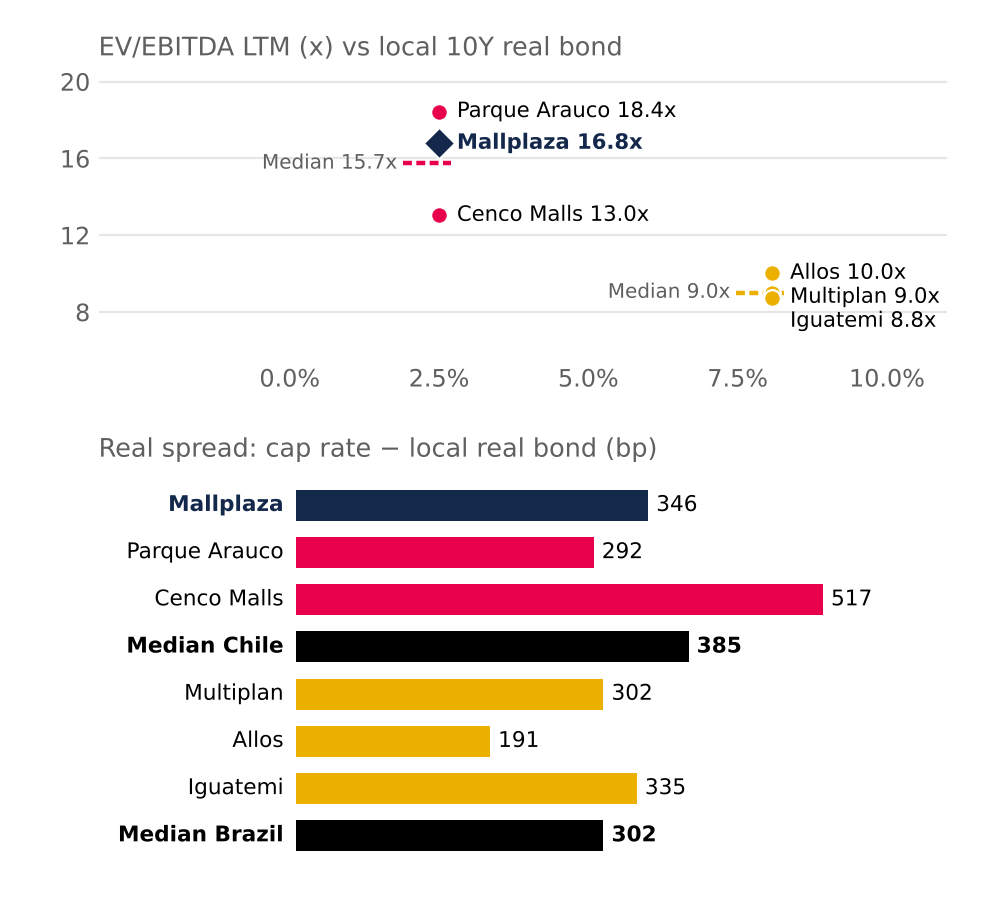
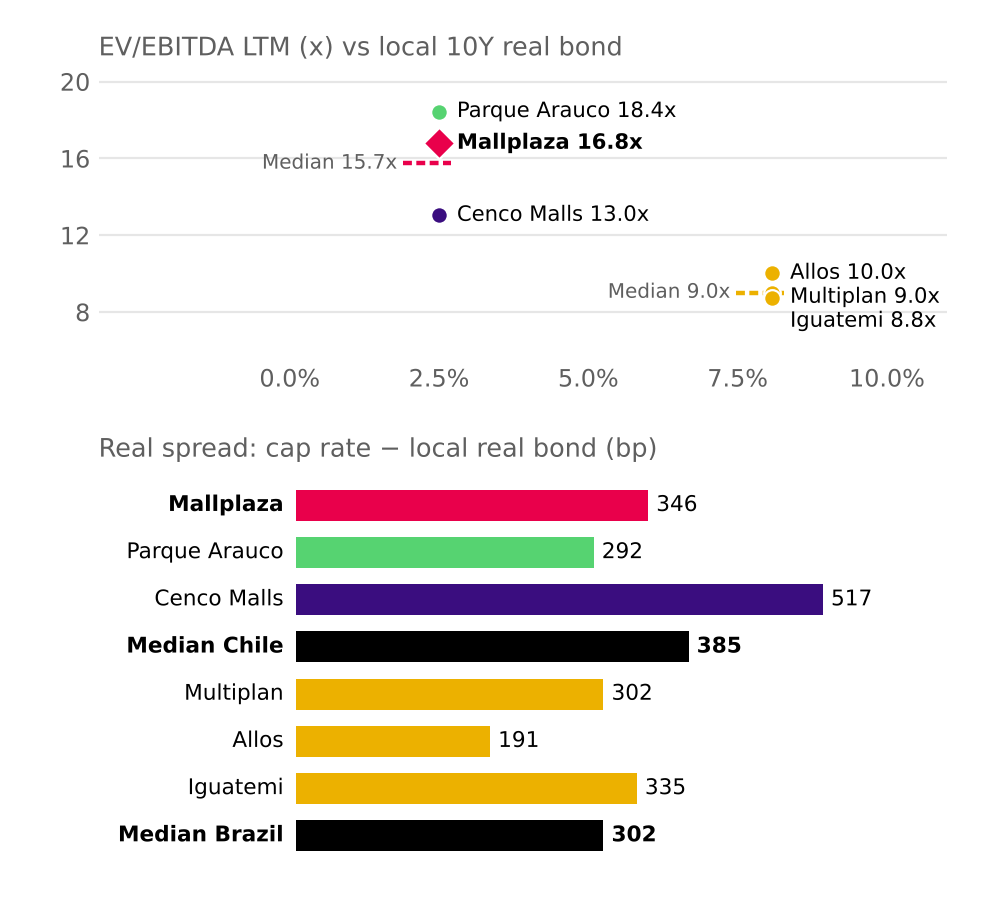
V7 (múltiplos vs tasa local): Mallplaza en rojo; Parque Arauco y Cenco Malls con su color de identificación
Claude-Session: https://claude.ai/code/session_0188QZHBkA8n5QL7BtmFakQg

Changed region(s): [[0.1826, 0.5289, 0.8519, 0.6844], [0.426, 0.1244, 0.6389, 0.1867], [0.426, 0.2178, 0.4564, 0.2489]]

diff --git a/secciones/valuacion/graficos/valuacion.py b/secciones/valuacion/graficos/valuacion.py
@@ -18,7 +18,7 @@ from matplotlib.patches import Patch, Rectangle
 
 sys.path.insert(0, str(Path(__file__).resolve().parents[2] / "comun"))  # paleta institucional y rutas compartidas
 import estilo  # noqa: E402,F401  (registra las carpetas graficos/ de todas las secciones)
-from estilo import num, pct, tinte
+from estilo import VERDE_PARQUE_ARAUCO, MORADO_CENCOSUD, num, pct, tinte
 from estilo import AMARILLO, CELESTE, GRILLA, NEGRO, ROJO, TINTA_SECUNDARIA
 
 AZUL = "#14284B"
@@ -184,6 +184,8 @@ def v7(lang, wb, salida):
     med = {"Chile": (ws["C15"].value, ws["F15"].value), "Brasil": (ws["C16"].value, ws["F16"].value)}
     corto = {"Mallplaza (precio actual)": "Mallplaza", "Cencosud Shopping": "Cenco Malls"}
     color = {"Chile": ROJO, "Brasil": AMARILLO}
+    # Mallplaza en rojo; Parque Arauco y Cenco Malls con su color de identificación (solo para reconocerlos)
+    por_nombre = {"Mallplaza": ROJO, "Parque Arauco": VERDE_PARQUE_ARAUCO, "Cenco Malls": MORADO_CENCOSUD}
     fig = figura("V7")
     # Panel A: múltiplo vs bono real local (etiquetas separadas verticalmente dentro de cada país)
     ax = fig.add_axes([0.1, 0.6, 0.86, 0.32])
@@ -193,11 +195,11 @@ def v7(lang, wb, salida):
         for nombre, _, mult, bono, _ in grupo:
             mp = nombre.startswith("Mallplaza")
             ax.scatter(bono * 100, mult, s=16 if mp else 9, marker="D" if mp else "o", zorder=4,
-                       color=AZUL if mp else color[pais], edgecolor="white", linewidth=0.4)
+                       color=por_nombre.get(corto.get(nombre, nombre), color[pais]), edgecolor="white", linewidth=0.4)
             y_lab = mult if y_prev is None else min(mult, y_prev - 1.25)
             y_prev = y_lab
             ax.text(bono * 100 + 0.3, y_lab, f"{corto.get(nombre, nombre)} {num(mult, lang, 1)}x", fontsize=3.8,
-                    va="center", color=AZUL if mp else NEGRO, fontweight="bold" if mp else "normal")
+                    va="center", color=NEGRO, fontweight="bold" if mp else "normal")
     for pais, (m, _) in med.items():
         x = (0.025 if pais == "Chile" else ws["E6"].value) * 100
         ax.plot([x - 0.6, x + 0.2], [m, m], color=color[pais], linewidth=0.8, linestyle=(0, (2, 1)))
@@ -220,11 +222,11 @@ def v7(lang, wb, salida):
     for k, (nombre, pais, sp) in enumerate(filas):
         y = len(filas) - 1 - k
         es_med, mp = nombre.startswith(t["med"]), nombre == "Mallplaza"
-        ax.barh(y, sp, height=0.66, color=AZUL if mp else (NEGRO if es_med else color[pais]), zorder=3)
+        ax.barh(y, sp, height=0.66, color=NEGRO if es_med else por_nombre.get(nombre, color[pais]), zorder=3)
         ax.text(sp + 8, y, num(sp, lang), va="center", fontsize=3.9, fontweight="bold" if es_med else "normal",
                 color=NEGRO)
         ax.text(-12, y, nombre, ha="right", va="center", fontsize=3.9, fontweight="bold" if es_med or mp else "normal",
-                color=AZUL if mp else NEGRO)
+                color=NEGRO)
     ax.set_xlim(0, 600)
     ax.set_ylim(-0.6, len(filas) - 0.4)
     ax.set_xticks([])
